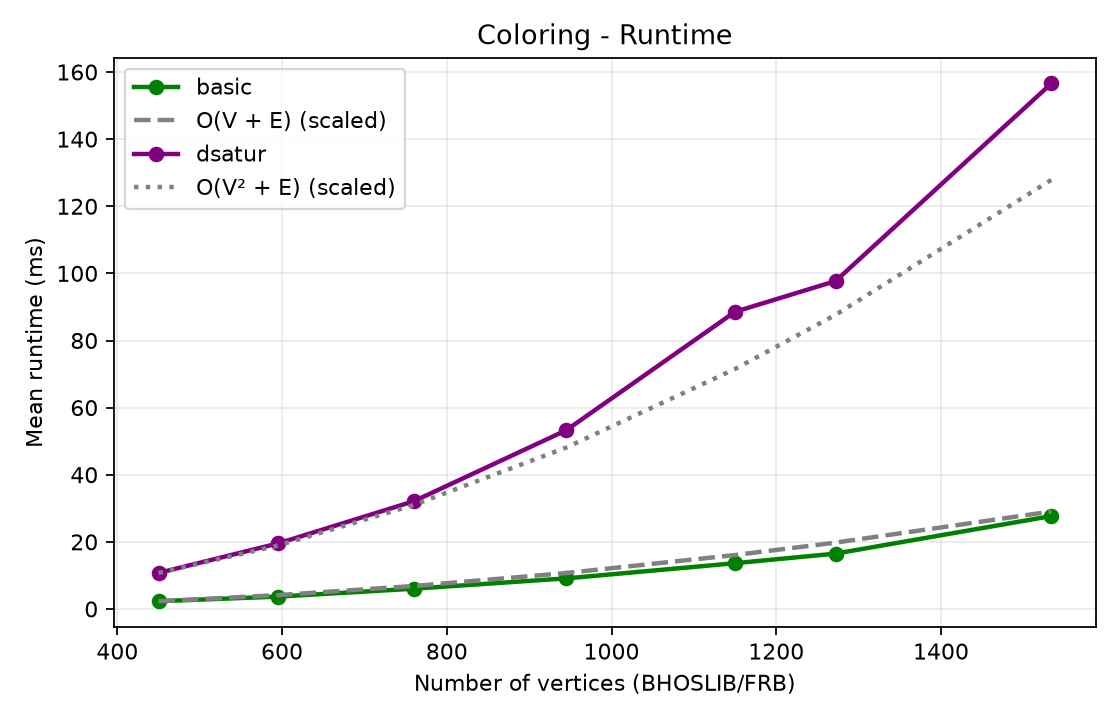
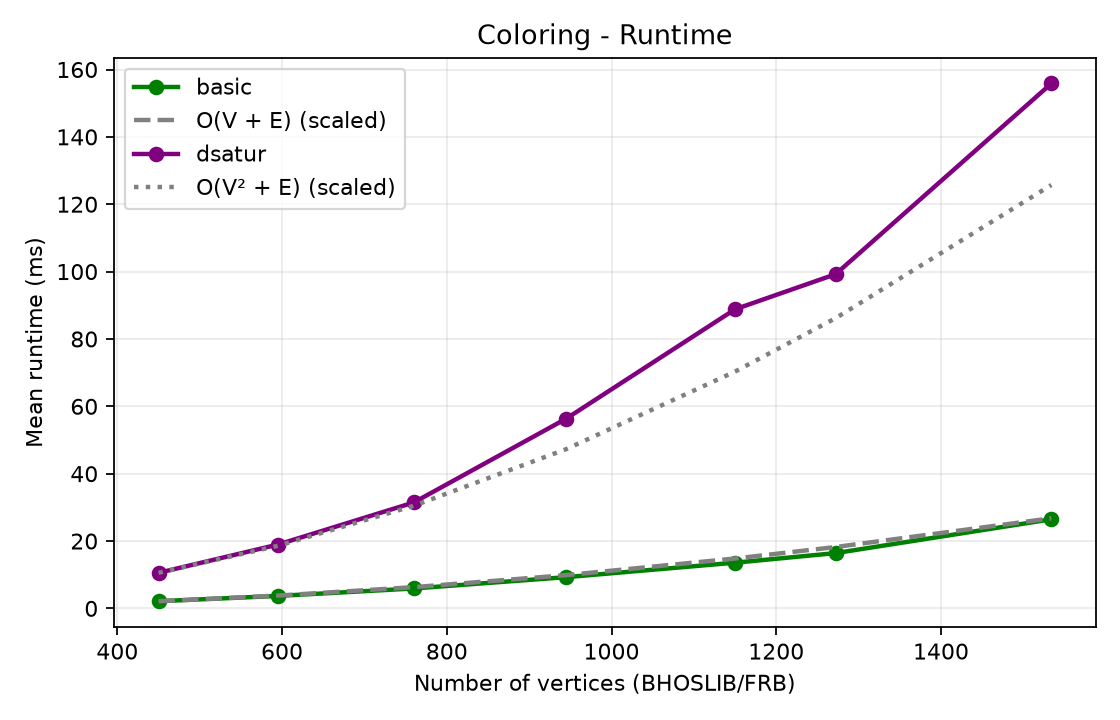
Added comments on experiments

diff --git a/experiments/benchmark.py b/experiments/benchmark.py
@@ -1,43 +1,27 @@
-"""Benchmark four graph algorithms on official BHOSLIB/FRB graphs."""
-
+# The code benchmark the basic and randomized vertex cover algorithms and the greedy and DSATUR graph coloring algorithms on FRB datasets.
+# Each algorithm is evaluated by runtime, solution size, and peak memory.
 import csv
 import tracemalloc
 from pathlib import Path
 from statistics import mean, median, stdev
 from time import perf_counter
-
-from algorithms.graph_coloring import (
-    basic_graph_coloring, dsatur_coloring, valid_coloring, number_of_colors,
-)
-from algorithms.vertex_cover import (
-    basic_vertex_cover, randomized_vertex_cover, valid_vertex_cover,
-)
+from algorithms.graph_coloring import (basic_graph_coloring, dsatur_coloring, valid_coloring, number_of_colors,)
+from algorithms.vertex_cover import (basic_vertex_cover, randomized_vertex_cover, valid_vertex_cover,)
 from experiments.dataset import load_graph
-
 
 METHODS = [
     ("vertex_cover", "basic", basic_vertex_cover),
     ("vertex_cover", "randomized", randomized_vertex_cover),
     ("coloring", "basic", basic_graph_coloring),
-    ("coloring", "dsatur", dsatur_coloring),
-]
+    ("coloring", "dsatur", dsatur_coloring),]
 
-FRB_CASES = [
-    "frb30-15-1",
-    "frb35-17-1",
-    "frb40-19-1",
-    "frb45-21-1",
-    "frb50-23-1",
-    "frb53-24-1",
-    "frb59-26-1",
-]
-
+FRB_CASES = ["frb30-15-1", "frb35-17-1", "frb40-19-1", "frb45-21-1", "frb50-23-1", "frb53-24-1", "frb59-26-1",]
 
 def benchmark(graph, dataset, repeats, seed):
-    """Measure runtime, solution size, and peak Python memory for each method.
-
-    Memory is measured separately to avoid affecting timed executions.
-    """
+    # Input: graph, dataset name, number of repetitions, and random seed
+    # Output: list of benchmark results for all four algorithms
+    # The code measures runtime, solution size, and peak Python memory for each method.
+    # Memory is measured separately to avoid affecting timed executions.
     rows = []
     for problem, name, function in METHODS:
         tracemalloc.start()
@@ -46,6 +30,7 @@ def benchmark(graph, dataset, repeats, seed):
                 memory_result = function(graph, seed=seed)
             else:
                 memory_result = function(graph)
+            # Convert peak memory from bytes to MiB: bytes / (1024^2).
             peak_mb = tracemalloc.get_traced_memory()[1] / (1024 * 1024)
         finally:
             tracemalloc.stop()
@@ -57,8 +42,9 @@ def benchmark(graph, dataset, repeats, seed):
                 result = function(graph, seed=seed + trial)
             else:
                 result = function(graph)
+            # Runtime (ms) = (end time - start time) * 1000.
             elapsed_ms = (perf_counter() - start) * 1000
-
+            # Solution size is the number of cover vertices or colors.
             if problem == "vertex_cover":
                 assert valid_vertex_cover(graph, result)
                 solution_size = len(result)
@@ -71,22 +57,25 @@ def benchmark(graph, dataset, repeats, seed):
                 "problem": problem, "algorithm": name, "repeat": trial + 1,
                 "time_ms": round(elapsed_ms, 6),
                 "solution_size": solution_size,
-                "peak_memory_mb": round(peak_mb, 6),
-            })
+                "peak_memory_mb": round(peak_mb, 6),})
     return rows
 
-
 def save_csv(rows, filename):
-    """Save benchmark rows as a CSV file."""
+    # Input: list of result dictionaries and output filename
+    # Output: CSV file containing the results
+    # The code creates the output directory if it does not exist.
     Path(filename).parent.mkdir(parents=True, exist_ok=True)
     with open(filename, "w", newline="", encoding="utf-8") as f:
         writer = csv.DictWriter(f, fieldnames=list(rows[0]))
         writer.writeheader()
         writer.writerows(rows)
 
-
 def summarize(rows):
-    """Calculate mean and standard deviation for each graph and algorithm."""
+    # Input: list of benchmark results
+    # Output: summary statistics grouped by dataset and algorithm
+    # The code uses median runtime, mean solution size and sample standard deviation
+    # Mean = sum(x) / k (k is the number of trials)
+    # Sample SD = sqrt(sum((x - mean)^2) / (k - 1))
     groups = {}
     for row in rows:
         key = (row["dataset"], row["problem"], row["algorithm"])
@@ -104,41 +93,38 @@ def summarize(rows):
             "time_std_ms": round(stdev(times), 6) if len(times) > 1 else 0,
             "solution_size": round(mean(sizes), 3),
             "solution_std": round(stdev(sizes), 3) if len(sizes) > 1 else 0,
-            "peak_memory_mb": first["peak_memory_mb"],
-        })
+            "peak_memory_mb": first["peak_memory_mb"], })
     return sorted(summary, key=lambda r: (r["problem"], r["n"], r["algorithm"]))
 
-
-
 def main():
-    """Run all four algorithms three times on each official FRB graph."""
+    # Input: none; uses the predefined FRB datasets
+    # Output: benchmark.csv, summary.csv, and printed benchmark results
+    # This block is to run all four algorithms three times on each FRB graph
     repeats = 3
     seed = 42
-
     rows = []
     for case in FRB_CASES:
         path = Path("data") / case / f"{case}.mtx"
         if not path.is_file():
             raise FileNotFoundError(f"Missing dataset: {path}")
-
         graph = load_graph(path)
         print(f"Benchmarking {case}: {graph.n} vertices, {len(graph.edges)} edges")
         rows.extend(benchmark(graph, case, repeats, seed))
-
+        
+    # This code save results and make summary
     save_csv(rows, "results/benchmark.csv")
     summary = summarize(rows)
     save_csv(summary, "results/summary.csv")
-
+    
+    # This is to display runtime, solution size, and peak memory for each method
     for row in summary:
         metric = "cover_vertices" if row["problem"] == "vertex_cover" else "colors"
-
         print(f"{row['dataset']:15} {row['problem']:12} "
             f"{row['algorithm']:12} "
             f"runs={row['trials']} "
             f"time={row['time_ms']:.3f} ms "
             f"{metric}={row['solution_size']:.2f} "
             f"peak_memory={row['peak_memory_mb']:.3f} MB")
-
 
 if __name__ == "__main__":
     main()

diff --git a/experiments/dataset.py b/experiments/dataset.py
@@ -1,35 +1,34 @@
-"""Undirected graph representation and graph benchmark-file reader."""
-
-import gzip
+# The Graph class stores an undirected graph using adjacency sets and an edge list.
+# Adjacency sets provide fast neighbor lookup and avoid duplicate edges.
 from pathlib import Path
-
 
 class Graph:
     def __init__(self, n):
-        """Input: number of vertices. Output: empty undirected graph."""
-        if n < 0:
-            raise ValueError("Vertex count cannot be negative")
+        # Input: number of vertices
+        # Output: empty undirected graph
         self.n = n
         self.adj = [set() for _ in range(n)]
         self.edges = []
 
     def add_edge(self, u, v):
-        """Input: two vertex IDs. Output: None; add one undirected edge."""
+        # Input: two vertex IDs
+        # Output: None; add one undirected edge
+        # It rejects invalid vertices and self-loops.
         if not (0 <= u < self.n and 0 <= v < self.n) or u == v:
             raise ValueError(f"Invalid edge: ({u}, {v})")
         if v not in self.adj[u]:
             self.adj[u].add(v)
             self.adj[v].add(u)
             self.edges.append((u, v))
-
-
-
+            
 def load_mtx(filename):
-    """Read an unweighted undirected graph in Matrix Market format."""
+    # Input: Matrix Market file
+    # Output: undirected graph
+    # It reads a square adjacency matrix and converts entries into edges.
     with open(filename, "r", encoding="utf-8") as f:
-        # Skip the Matrix Market header and comments.
+        # The code is to skip the header and comments, and read matrix dimensions.
         for line in f:
-            if not line.strip() or line.lstrip().startswith("%"):
+            if not line.strip() or line.startswith("%"):
                 continue
             n, columns, entries = map(int, line.split())
             if n != columns:
@@ -39,30 +38,32 @@ def load_mtx(filename):
         else:
             raise ValueError("Missing Matrix Market dimensions")
 
+        # Read edges and convert 1-based IDs to 0-based IDs.
         count = 0
         for line in f:
-            if not line.strip() or line.lstrip().startswith("%"):
+            if not line.strip() or line.startswith("%"):
                 continue
             u, v = map(int, line.split()[:2])
             if u != v:
                 graph.add_edge(u - 1, v - 1)
             count += 1
-
         if count != entries:
-            raise ValueError("Incorrect number of Matrix Market entries")
-        return graph
+            raise ValueError("Incorrect number of entries")
+    return graph
 
 
 def load_graph(filename):
-    """Read a Matrix Market .mtx or a DIMACS graph file."""
+    # Input: Matrix Market (.mtx) or DIMACS graph file
+    # Output: undirected graph
+    # This block is to select the appropriate loader based on the file extension.
     filename = Path(filename)
     if filename.suffix.lower() == ".mtx":
         return load_mtx(filename)
-    opener = gzip.open if filename.suffix == ".gz" else open
     graph = None
     expected_edges = None
-
-    with opener(filename, "rt", encoding="utf-8") as f:
+    
+    # It reads DIMACS header and edges, skipping comments.
+    with open(filename, "r", encoding="utf-8") as f:
         for line in f:
             parts = line.split()
             if not parts or parts[0] in ("c", "%"):
@@ -74,9 +75,8 @@ def load_graph(filename):
                 expected_edges = int(parts[3])
             elif parts[0] == "e" and graph is not None and len(parts) == 3:
                 graph.add_edge(int(parts[1]) - 1, int(parts[2]) - 1)
-            else:
-                raise ValueError(f"Invalid DIMACS line: {line.strip()}")
-
+                
+    # The code verifies that the graph was loaded with the expected edge count.
     if graph is None or len(graph.edges) != expected_edges:
         raise ValueError("Missing header or incorrect edge count")
     return graph

diff --git a/experiments/plot.py b/experiments/plot.py
@@ -1,12 +1,10 @@
-"""Plot measured runtimes with scaled theoretical complexity references."""
-
+# The code generates runtime comparison plots for vertex cover and graph coloring.
 import csv
 from pathlib import Path
 import matplotlib.pyplot as plt
 
-
 def read_results(filename):
-    """Read benchmark summary and convert the numeric columns."""
+    # the code reads the CSV file and convert numeric columns.
     with open(filename, newline="", encoding="utf-8") as f:
         rows = list(csv.DictReader(f))
     for row in rows:
@@ -15,52 +13,38 @@ def read_results(filename):
         row["time_ms"] = float(row["time_ms"])
     return rows
 
-
-
 def make_plot(rows, problem):
-    """Compare measured runtime with scaled theoretical complexity."""
+    # The code compares measured runtime with scaled theoretical complexity
     plt.figure(figsize=(7, 4.5))
 
-    colors = {
-        "vertex_cover": {"basic": "blue", "randomized": "red"},
-        "coloring": {"basic": "green", "dsatur": "purple"},
-    }
-
+    colors = {"vertex_cover": {"basic": "blue", "randomized": "red"}, "coloring": {"basic": "green", "dsatur": "purple"},}
     relevant = [r for r in rows if r["problem"] == problem]
-
     for name in sorted({r["algorithm"] for r in relevant}):
         points = sorted(
             (r for r in relevant if r["algorithm"] == name),
-            key=lambda r: r["n"]
-        )
-
+            key=lambda r: r["n"])
         x = [r["n"] for r in points]
         y = [r["time_ms"] for r in points]
-
-        plt.plot(x, y, color=colors[problem][name],
-                 linewidth=2, marker="o", label=name)
-
+        plt.plot(x, y, color=colors[problem][name], linewidth=2, label=name)
+        
+        # Theoretical growth O(E) for vertex cover, O(V + E) for basic coloring, and O(V^2 + E) for DSATUR.
         if problem == "vertex_cover":
             if name != "basic":
                 continue
             growth = [r["m"] for r in points]
             label = "O(E) (scaled)"
             style = "--"
-
         elif name == "basic":
             growth = [r["n"] + r["m"] for r in points]
             label = "O(V + E) (scaled)"
             style = "--"
-
         else:
             growth = [r["n"] ** 2 + r["m"] for r in points]
             label = "O(V² + E) (scaled)"
             style = ":"
-
+        # The code scales reference growth using T_ref = T0 * growth / growth0.
         reference = [y[0] * value / growth[0] for value in growth]
-
-        plt.plot(x, reference, linestyle=style, color="gray",
-                 linewidth=2, label=label)
+        plt.plot(x, reference, linestyle=style, color="gray", linewidth=2, label=label)
 
     plt.xlabel("Number of vertices (BHOSLIB/FRB)")
     plt.ylabel("Mean runtime (ms)")
@@ -68,20 +52,19 @@ def make_plot(rows, problem):
     plt.legend()
     plt.grid(True, alpha=0.25)
     plt.tight_layout()
-
+    
+    # It saves the plot as a PNG file.
     Path("results/figures").mkdir(parents=True, exist_ok=True)
     filename = f"results/figures/{problem}_time_ms.png"
     plt.savefig(filename, dpi=160)
     plt.close()
     print(f"Saved {filename}")
 
-
 def main():
-    """Generate the two runtime plots."""
+    # the code generates the two runtime plots
     rows = read_results("results/summary.csv")
     for problem in ("vertex_cover", "coloring"):
         make_plot(rows, problem)
-
 
 if __name__ == "__main__":
     main()

diff --git a/experiments/demo.py b/experiments/demo.py
@@ -1,19 +1,17 @@
-"""Small demonstration of the four algorithms."""
-
+# This code is demo: it loads an example graph and display the results of all four algorithms.
 from algorithms.graph_coloring import basic_graph_coloring, dsatur_coloring
 from algorithms.vertex_cover import basic_vertex_cover, randomized_vertex_cover
 from experiments.dataset import load_graph
 
-
 def main():
-    """Input: none. Output: algorithm solutions for the example graph."""
+    # Input: none
+    # Output: algorithm solutions for the example graph.
     graph = load_graph("data/example.col")
     print(f"Example graph: {graph.n} vertices, {len(graph.edges)} edges")
     print("Basic cover:", sorted(basic_vertex_cover(graph)))
     print("Randomized cover:", sorted(randomized_vertex_cover(graph, seed=42)))
     print("Basic coloring:", basic_graph_coloring(graph))
     print("DSATUR coloring:", dsatur_coloring(graph))
-
 
 if __name__ == "__main__":
     main()
